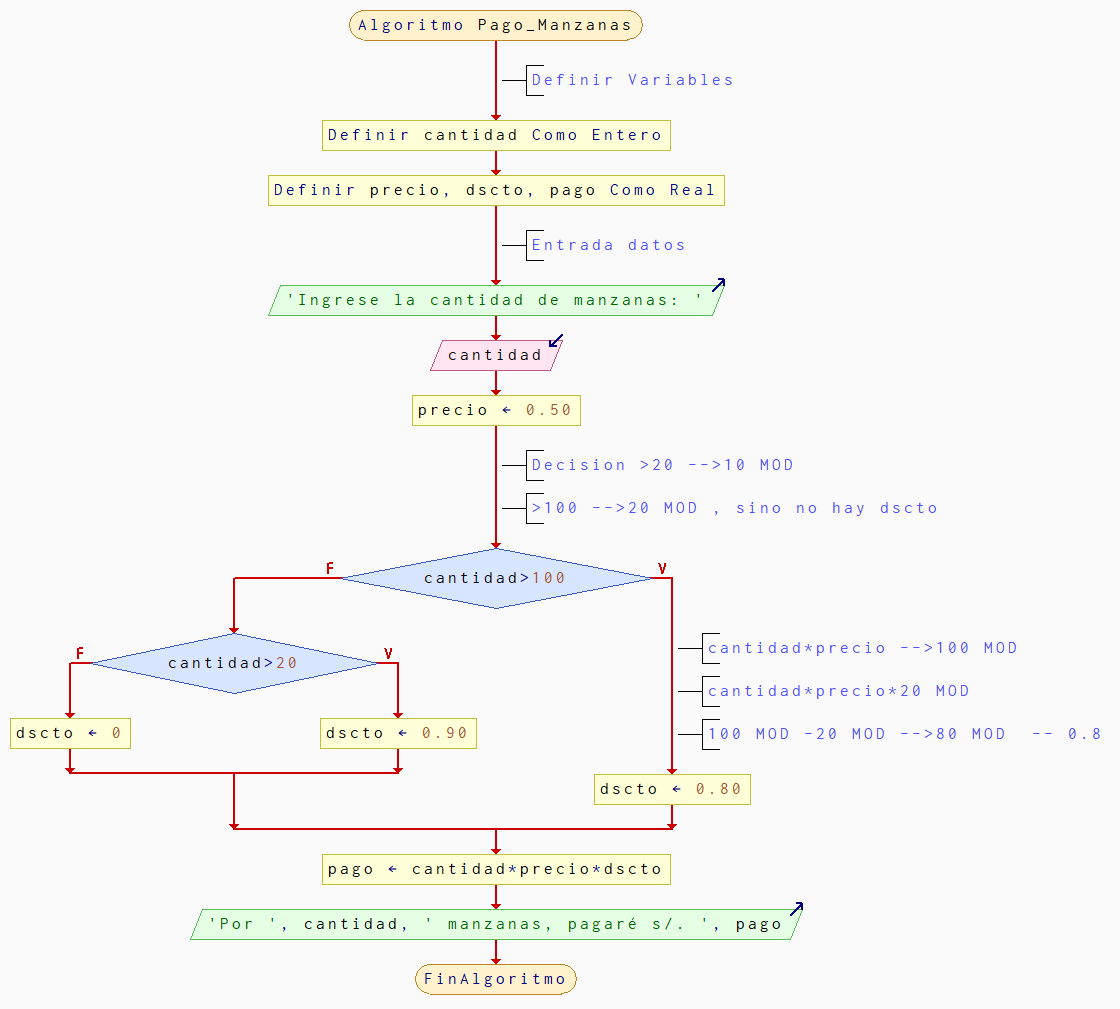
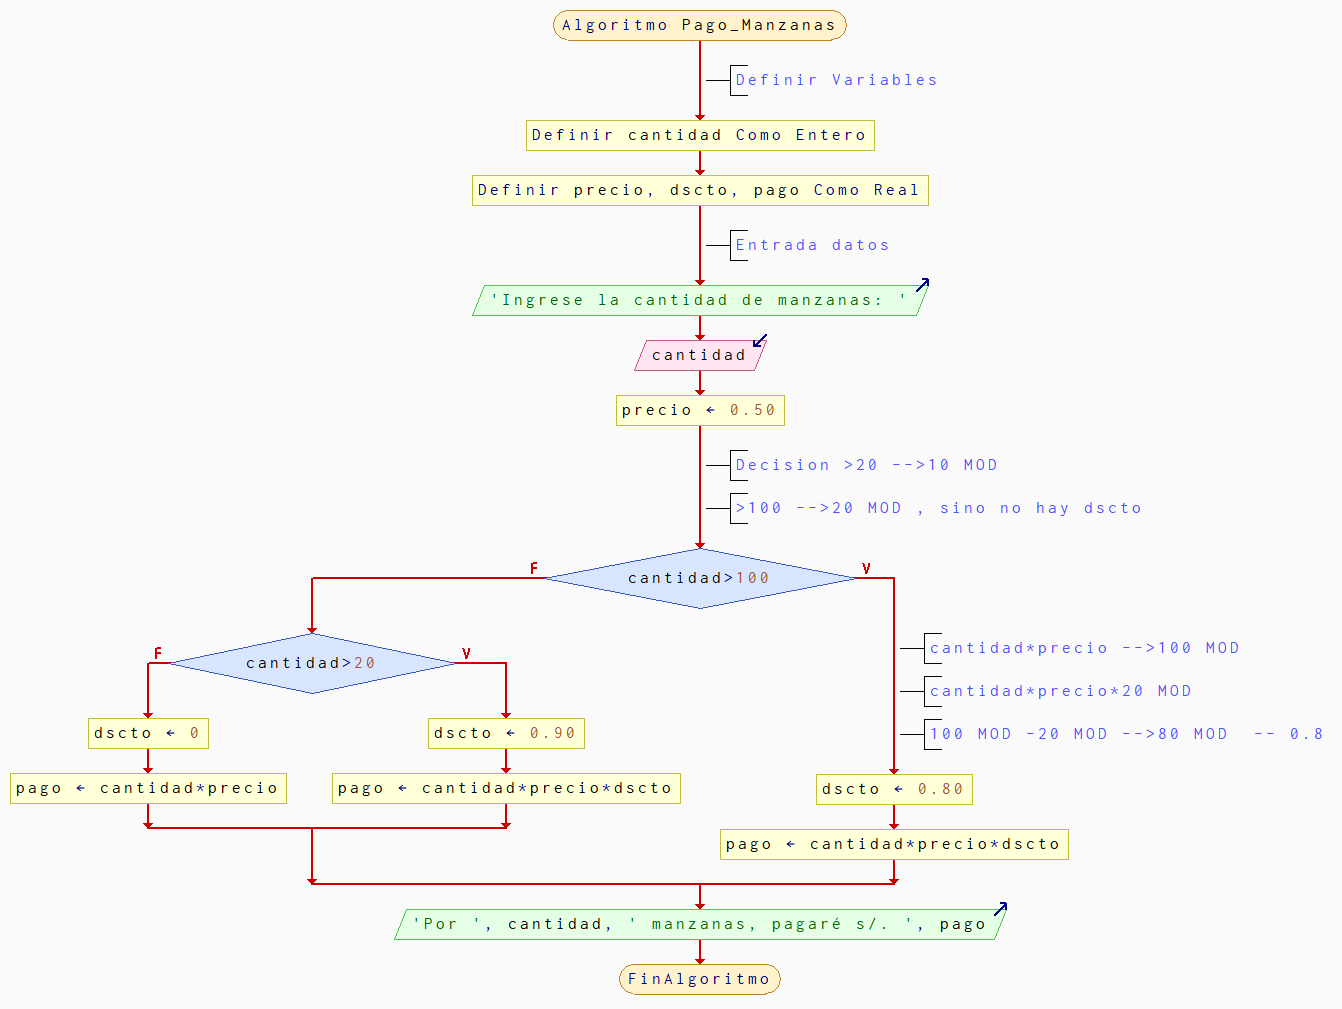
Ejercicio 3 C. Anidado

diff --git a/3. Condicionales Anidados/Ejercicio2CAnidado.py b/3. Condicionales Anidados/Ejercicio2CAnidado.py
@@ -1,0 +1,18 @@
+# Definir variables
+
+precio=0.50
+pago = 0
+# Entrada datos
+cantidad=int(input("Ingrese la cantidad de manzanas: "))
+
+# Decision
+if (cantidad > 100):
+    dscto = 0.80
+    pago = cantidad * precio * dscto
+elif (cantidad > 20):
+    dscto = 0.90
+    pago = cantidad*precio*dscto
+else:
+    pago = cantidad * precio;
+
+print(f"Por {cantidad} manzanas, pagaré s/. {pago}")